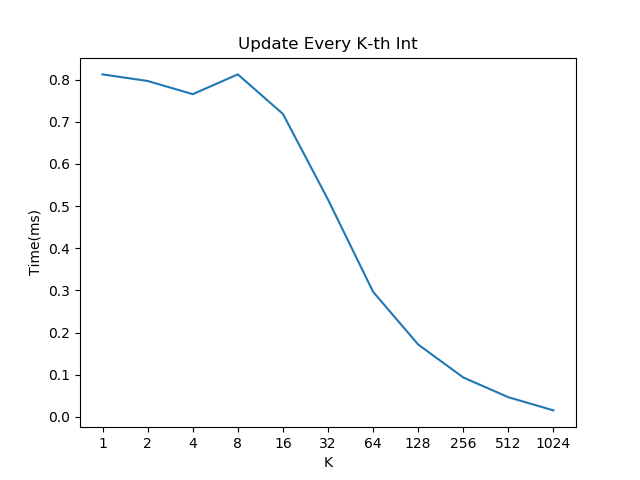
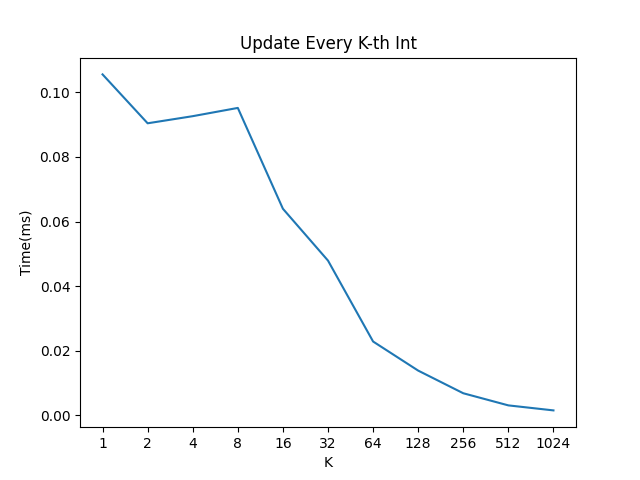
Modifications suggested by @milzj to improve the template

diff --git a/src/main.cpp b/src/main.cpp
@@ -1,3 +1,15 @@
+//****************************************************************************//
+// Copyright 2024, Ted Ralphs
+//
+// Permission is hereby granted, free of charge, to any person obtaining a copy
+// of this software and associated documentation files (the "Software"), to deal
+// in the Software without restriction, including without limitation the rights
+// to use, copy, modify, merge, publish, distribute, sublicense, and/or sell
+// copies of the Software, and to permit persons to whom the Software is
+// furnished to do so, subject to the conditiosn specified in the LICENSE file
+//
+//****************************************************************************//
+
 #include <iostream>
 #include <vector>
 #include <time.h>

diff --git a/scripts/test.py b/scripts/test.py
@@ -15,7 +15,7 @@ results = {i : [] for i in sizes}
 for i in sizes:
     print("Running with step size %d" % i) 
     c = subprocess.run([os.path.join(os.getcwd(), sys.argv[1]), "%d" % i,
-                        "1000000000"], stdout = subprocess.PIPE)
+                        "100000000"], stdout = subprocess.PIPE)
     print(c.stdout.decode('ascii'))
     results[i].append(float(c.stdout.decode('ascii').split()[-1]))
     
@@ -25,6 +25,6 @@ plt.plot(sizes, list(results.values()))
 plt.title("Update Every K-th Int")
 plt.xlabel("K")
 plt.ylabel("Time(ms)")
-plt.xscale('log', basex=2)
+plt.xscale('log', base=2)
 plt.xticks(sizes, sizes)
 plt.show()
